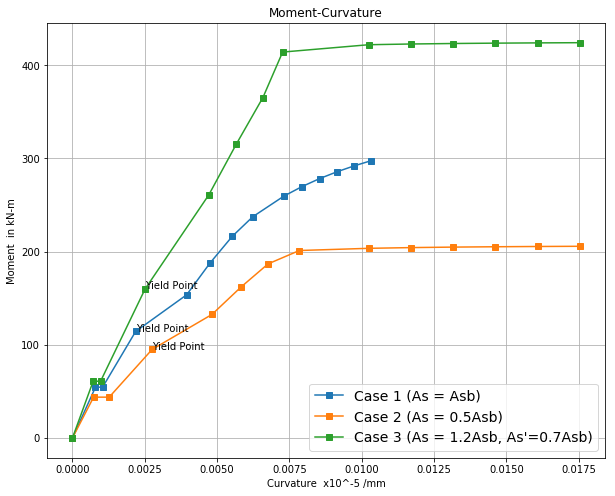
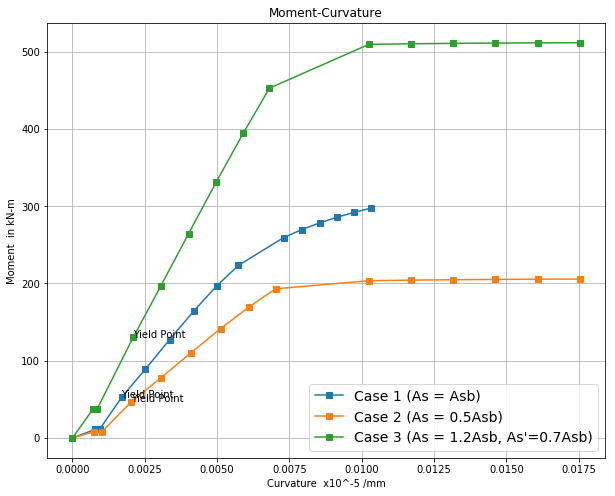
Updated markdown notebook

diff --git a/Notebooks/Problem Set 1/Problem Set 1.md b/Notebooks/Problem Set 1/Problem Set 1.md
@@ -77,13 +77,6 @@ As a general solution to the problem, analysis as doubly reinforced beam is appl
 
 
 
-
-
-
-
-
-
-
 Calculating, we have $\epsilon o = 0.001657$
 
 Now that we have $kd$ and $fr$, we solve for $\epsilon c$ by ratio and proportion based on the strain diagram below:
@@ -110,13 +103,13 @@ Calculating $fc = \epsilon c \cdot Ec$, we get $fc = 3.697 $ MPa
 
 From the strain diagram in Figure 2 above, we have,
 $$
-\frac{\epsilon c}{kd} = \frac{\frac{fs'}{Es}}{kd - d'}
+\dfrac{\epsilon c}{kd} = \dfrac{\dfrac{fs'}{Es}}{kd - d'}
 $$
 This gives us, $fs' = 27.2059$ MPa.
 
 Now, we solve for required parameters in PCA stress block, $Lo(k1\cdot k3)$ and $k2$.
 $$
-\lambda o = \frac{\epsilon c}{\epsilon o}
+\lambda o = \dfrac{\epsilon c}{\epsilon o}
 $$
 From the calculated $\epsilon o$ and $\epsilon c$, we get $\lambda o = 0.1035$.
 
@@ -146,33 +139,38 @@ Following the formula above, we get, $Lo = 0.08498$
 
 Then from the stress diagram above, we take moment at the tension steel,
 $$
-Mcr = Lo \cdot fc \cdot kd \cdot b \cdot (d - k2\cdot kd) + As\cdot fs'(d - d')
+Mc = Lo \cdot fc \cdot kd \cdot b \cdot (d - k2\cdot kd) + As\cdot fs'(d - d')
 $$
 We then get, $Mcr = 37.5 kN\cdot m$
 
-For the curvature $\phi c = \frac{\epsilon c}{kd}$, $\phi c = 7.12 x10^{-7} rad/mm$
+For the curvature $\phi c = \dfrac{\epsilon c}{kd}$, $\phi c = 7.12 x10^{-7} rad/mm$
 
 
-   3. Calculate the curvature $\phi c$ right after cracking
+
+
+   3. Calculate the curvature $\phi c$ right after cracking
 
       The neutral axis will shift after the crack, so taking moment of area for transformed steel in tension ($\eta As$) and compression ($(\eta-1)As$) and concrete at the compressive area into the neutral axis:
       $$
-      b \cdot kd \cdot \frac{kd}{2} + (\eta-1)As' \cdot (kd-d') = \eta As \cdot (d-kd)
+      b \cdot kd \cdot \dfrac{kd}{2} + (\eta-1)As' \cdot (kd-d') = \eta As \cdot (d-kd)
       $$
 
-      | Particulars                 | Calculated Values   |
-      | --------------------------- | ------------------- |
-      | $kd$                        | 196.76 $mm$         |
-      | $Ic~(after crack)~$         | $2.908x10^9 mm^4$   |
-      | $ϕc = \dfrac{Mcr}{Ec * Ic}$ | $ 9.733e-07 rad/mm$ |
+      | Particulars                   | Calculated Values         |
+      | ----------------------------- | ------------------------- |
+      | $kd$                          | 196.76 $mm$               |
+      | $ϕc = \dfrac{\epsilon c}{kd}$ | $ 8.5303 x10^{-7} rad/mm$ |
 
-   #### Stage 2 : Concrete compression yield at ($fc = 0.5f'c$)
+#### Stage 2 : Concrete compression yield at ($fc = 0.5f'c$)
+
+Now let's find the point wherein the concrete yields at a specified stress ($0.5 f'c$).
 
    By equilibrium, $C = T$
 $$
-   \frac{1}{2} fc \cdot kd \cdot b  + (As - As')fs = As' \cdot fs
+Lo \cdot fc \cdot kd \cdot b + As'\cdot fs' = As \cdot fs
 $$
-   Solving kd using quadratic formula,  $ kd = 194.03mm $
+By using $fc = 0.5 f'c$, $\epsilon c = 0.000487$
+
+Using equations (4), (5) and (6), we obtain,  $ kd = 194.03mm $
 
    By deriving from the **Strain Diagram** above, we get:
 $$
@@ -183,23 +181,15 @@ $$
    fs' = Es \cdot ⲉc \cdot \dfrac{kd - d'}{kd}
 $$
 
-   After this, $fs$ and $fs'$ are compared to $fy$, if  any of them is greater than $fy$, steel yields and, so use $fs = fy$ or $fs' = fy$ correspondingly is solving for Moments.
+After this, $fs$ and $fs'$ are compared to $fy$, if  any of them is greater than $fy$, steel yields and, so use $fs = fy$ or $fs' = fy$ correspondingly is solving for Moments.
+
+Moment can now be solved using equation (9):
 
 
-
-   Moment can now be solved by taking moment to tension steel:
-$$
-Mc = \dfrac{1}{2} \cdot fc \cdot kd \cdot b \cdot (d - \dfrac{kd}{3}) + As'\cdot fs' (d - d')
-$$
-
-
-| Particulars    | Calculated Values      |
-| -------------- | ---------------------- |
-| $fc = 0.5 f'c$ | $10.50 MPa$            |
-| $fs$           | $103.50 MPa$           |
-| $fs'$          | $72.37 MPa$            |
-| $Mc$           | $ 159.98 x 10^6 kN-m $ |
-| $ϕc$           | $ 2.512e-07 rad/mm$    |
+| Particulars | Calculated Values        |
+| ----------- | ------------------------ |
+| $Mc$        | $ 130.19 kN-m $          |
+| $ϕc$        | $ 2.099 x10^{-6} rad/mm$ |
 
 
 
@@ -287,39 +277,6 @@ Calculation inside these stages are almost the same except for the calculations 
 
 
 
-
-
-
-
-
-
-
-
-
-
-
-
-
-
-
-
-
-
-
-
-
-
-
-
-
-
-
-
-
-
-
-
-
 ### III. Results / Charts
 
 ---
@@ -330,14 +287,15 @@ Following is the result of the run of the script for the problem in all three (3
 
 | Moment ($kN \cdot m$)   | $\phi c$ (rad/mm) | $\epsilon c$ | Tension Steel Yield | Compression Steel Yield |
 | ----------------------- | ----------------- | ------------ | ------------------- | ----------------------- |
-| 54.57                   | 7.9703e-07        |              |                     |                         |
-| 54.57                   | 1.0428e-06        |              |                     |                         |
-| 114.39                  | 2.1859e-06        | 0.00048      |                     |                         |
+| 11.44                   | 7.9703e-07        |              |                     |                         |
+| 11.44                   | 9.4038e-07        |              |                     |                         |
+| 52.48                   | 1.6977e-06        | 0.00048      |                     |                         |
 | ***For 0 < ⲉc < ⲉo***   |                   |              |                     |                         |
-| 153.69                  | 3.95e-06          | 0.00103      | False               | False                   |
-| 187.86                  | 4.76e-06          | 0.00123      | False               | False                   |
-| 216.42                  | 5.52e-06          | 0.00143      | False               | False                   |
-| 237.47                  | 6.23e-06          | 0.00163      | False               | False                   |
+| 89.09                   | 2.52e-06          | 0.00069      | False               | False                   |
+| 127.38                  | 3.36e-06          | 0.00089      | False               | False                   |
+| 164.18                  | 4.19e-06          | 0.00109      | False               | False                   |
+| 196.92                  | 4.99e-06          | 0.00129      | False               | False                   |
+| 223.4                   | 5.74e-06          | 0.00149      | False               | False                   |
 | ***For ⲉo < ⲉc < ⲉcu*** |                   |              |                     |                         |
 | 259.5                   | 7.3e-06           | 0.00196      | False               | True                    |
 | 269.74                  | 7.93e-06          | 0.00216      | False               | True                    |
@@ -370,14 +328,15 @@ Following is the result of the run of the script for the problem in all three (3
 
 | Moment ($kN \cdot m$)   | $\phi c$ (rad/mm) | $\epsilon c$ | Tension Steel Yield | Compression Steel Yield |
 | ----------------------- | ----------------- | ------------ | ------------------- | ----------------------- |
-| 43.86                   | 7.315e-07         |              |                     |                         |
-| 43.86                   | 1.270e-06         |              |                     |                         |
-| 95.07                   | 2.754e-06         | 0.00048      |                     |                         |
+| 8.11                    | 7.315e-07         |              |                     |                         |
+| 8.11                    | 1.018e-06         |              |                     |                         |
+| 46.36                   | 2.022e-06         | 0.00048      |                     |                         |
 | ***For 0 < ⲉc < ⲉo***   |                   |              |                     |                         |
-| 132.65                  | 4.82e-06          | 0.00103      | False               | False                   |
-| 161.97                  | 5.83e-06          | 0.00123      | False               | False                   |
-| 186.87                  | 6.76e-06          | 0.00143      | False               | False                   |
-| 201.24                  | 7.85e-06          | 0.00163      | True                | False                   |
+| 77.65                   | 3.05e-06          | 0.00069      | False               | False                   |
+| 110.23                  | 4.09e-06          | 0.00089      | False               | False                   |
+| 141.62                  | 5.12e-06          | 0.00109      | False               | False                   |
+| 169.81                  | 6.11e-06          | 0.00129      | False               | False                   |
+| 193.12                  | 7.02e-06          | 0.00149      | False               | False                   |
 | ***For ⲉo < ⲉc < ⲉcu*** |                   |              |                     |                         |
 | 203.58                  | 1.024e-05         | 0.00196      | True                | True                    |
 | 204.35                  | 1.17e-05          | 0.00216      | True                | True                    |
@@ -416,25 +375,26 @@ Following is the result of the run of the script for the problem in all three (3
 
 | Moment ($kN \cdot m$)   | $\phi c$ (rad/mm) | $\epsilon c$ | Tension Steel Yield | Compression Steel Yield |
 | ----------------------- | ----------------- | ------------ | ------------------- | ----------------------- |
-| 60.97                   | 7.167e-07         |              |                     |                         |
-| 60.97                   | 9.733e-07         |              |                     |                         |
-| 159.98                  | 2.512e-06         | 0.00048      |                     |                         |
+| 37.5                    | 7.124e-07         |              |                     |                         |
+| 37.5                    | 8.530e-07         |              |                     |                         |
+| 130.19                  | 2.099e-06         | 0.00048      |                     |                         |
 | ***For 0 < ⲉc < ⲉo***   |                   |              |                     |                         |
-| 260.98                  | 4.72e-06          | 0.00103      | False               | False                   |
-| 315.58                  | 5.67e-06          | 0.00123      | False               | False                   |
-| 365.39                  | 6.58e-06          | 0.00143      | False               | False                   |
-| 414.18                  | 7.27e-06          | 0.00163      | True                | False                   |
+| 196.57                  | 3.05e-06          | 0.00069      | False               | False                   |
+| 264.6                   | 4.02e-06          | 0.00089      | False               | False                   |
+| 331.44                  | 4.97e-06          | 0.00109      | False               | False                   |
+| 394.8                   | 5.91e-06          | 0.00129      | False               | False                   |
+| 452.77                  | 6.81e-06          | 0.00149      | False               | False                   |
 | ***For ⲉo < ⲉc < ⲉcu*** |                   |              |                     |                         |
-| 422.07                  | 1.024e-05         | 0.00196      | True                | True                    |
-| 422.84                  | 1.17e-05          | 0.00216      | True                | True                    |
-| 423.37                  | 1.316e-05         | 0.00236      | True                | True                    |
-| 423.75                  | 1.462e-05         | 0.00256      | True                | True                    |
-| 424.03                  | 1.608e-05         | 0.00276      | True                | True                    |
-| 424.25                  | 1.754e-05         | 0.00296      | True                | True                    |
+| 509.46                  | 1.024e-05         | 0.00196      | True                | True                    |
+| 510.23                  | 1.17e-05          | 0.00216      | True                | True                    |
+| 510.76                  | 1.316e-05         | 0.00236      | True                | True                    |
+| 511.14                  | 1.462e-05         | 0.00256      | True                | True                    |
+| 511.42                  | 1.608e-05         | 0.00276      | True                | True                    |
+| 511.64                  | 1.754e-05         | 0.00296      | True                | True                    |
 
 
 
-![output_4_0](D:\Personal\Masteral\AdvancedConcreteDesign\Notebooks\Problem Set 1\output_4_0.png)
+![](/Users/syncster31/Documents/Masteral/masteral-advanced-concrete-design/Notebooks/Problem Set 1/output_4_0.png)
 
 
 
@@ -448,11 +408,6 @@ Following are comments and findings in this problem set.
 
 - Following the 1st comment, if we look at the table in the Results section at Case 1, we can see that the tensile reinforcements did not yield until the beam failed. This could be the reason why we avoid to have a balanced design or even an over reinforced design for that matter.
 
-- After the elastic stage, I also noticed the change in slope in the range of $\epsilon c < \epsilon o$. The slope goes steeper and steeper until $ \epsilon c $  approaches  $\epsilon o$ and then it abruptly goes almost flat. I'm not sure if this though if this is what's called the *strain hardening* before the crushing of concrete at failure.
-
-- Lastly is the comparison of calculated moment at $fc = 0.5 f'c$ from that computed at yield point using triangular stress block (*end of elastic stage*) and that of computing it using PCA stress block (*considering inelastic stage*). In the figure at the result above, I started the $\epsilon c$ iteration way far ahead of calculated strain ($\epsilon$~0.5f'c~). The moment calculated using inelastic approach is less than of that computed using elastic approach at $fc = 0.5 f'c$ as shown below (for Case 1 and Case 2).
-
-  ![](D:\Personal\Masteral\AdvancedConcreteDesign\Notebooks\Problem Set 1\output_4_1.png)
 
 
 
